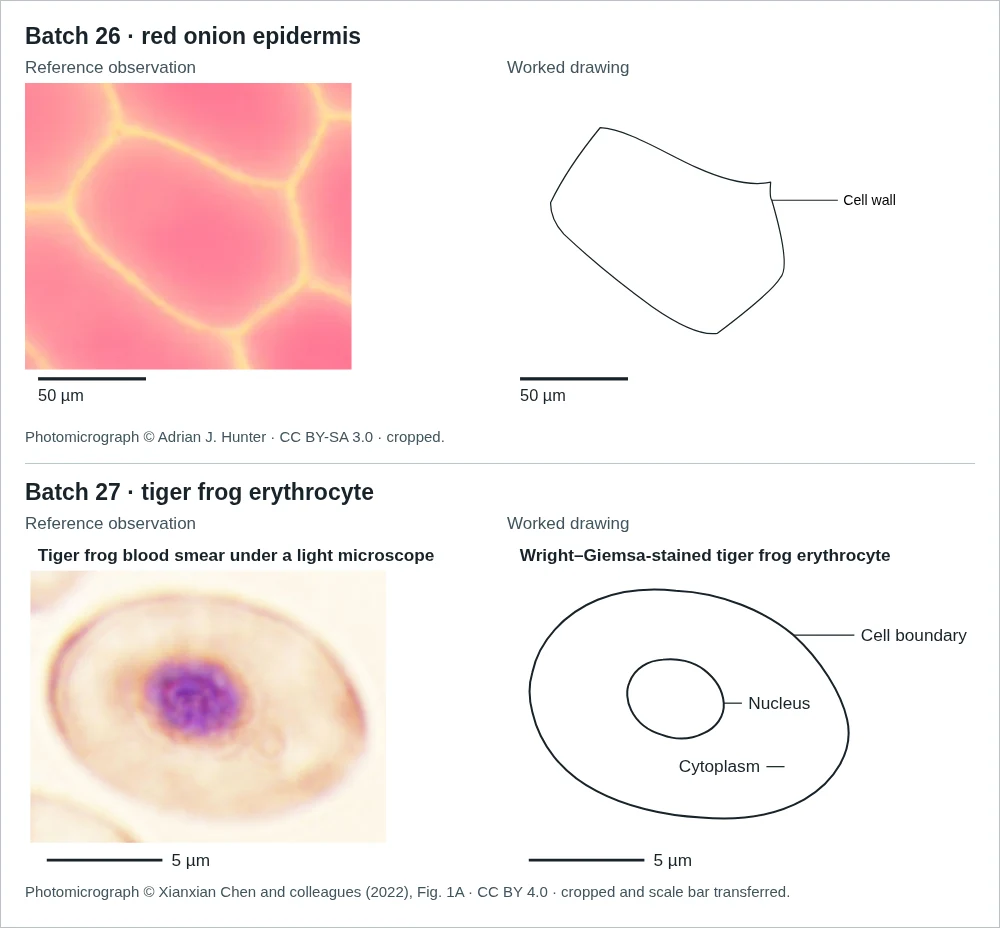
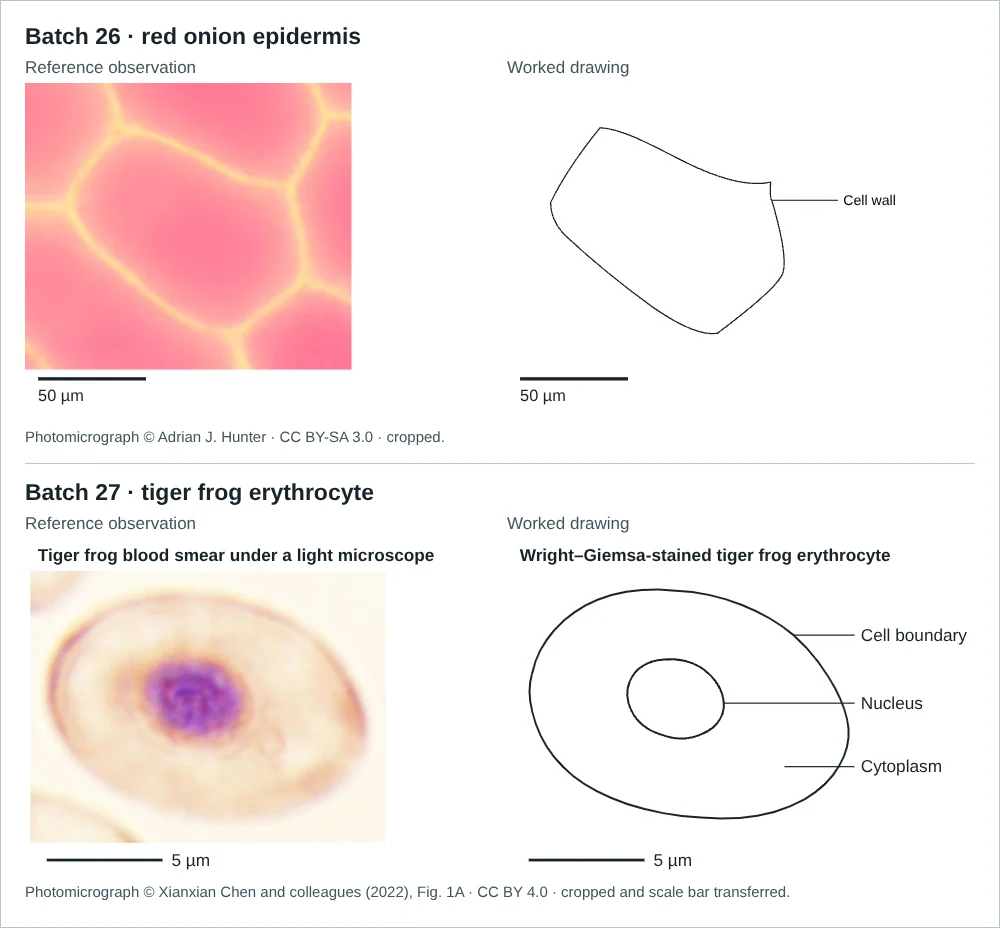
Place frog cell labels outside the specimen and check each line endpoint

diff --git a/public/alevel/drawing-worked.js b/public/alevel/drawing-worked.js
@@ -30,18 +30,16 @@
       content + scaleBar(24, 354));
   }
 
-  function leader(label, startX, y, endX, placeTextBefore = false) {
-    const textX = endX + (placeTextBefore ? -7 : 7);
-    return '<g data-worked-label="' + label + '"><line x1="' + startX + '" x2="' + endX + '" y1="' + y + '" y2="' + y +
-      '" stroke="' + ink + '" stroke-width="1.35"/><text x="' + textX + '" y="' + (y + 6) + '" text-anchor="' +
-      (placeTextBefore ? "end" : "start") + '" font-size="19">' + label + '</text></g>';
+  function leader(label, targetX, y) {
+    return '<g data-worked-label="' + label + '"><line x1="' + targetX + '" x2="377" y1="' + y + '" y2="' + y +
+      '" stroke="' + ink + '" stroke-width="1.35"/><text x="384" y="' + (y + 6) + '" font-size="19">' + label + '</text></g>';
   }
 
   function modelSvg() {
     const outlines = '<g fill="none" stroke="' + ink + '" stroke-width="2.2" stroke-linejoin="round">' +
       '<path data-worked-contour="cell" d="' + cell + '"/><path data-worked-contour="nucleus" d="' + nucleus + '"/></g>';
-    const drawing = '<g transform="translate(6 35)">' + outlines + leader("Cell boundary", 310, 71, 377) +
-      leader("Nucleus", 233, 146, 253) + leader("Cytoplasm", 300, 216, 280, true) + '</g>';
+    const drawing = '<g transform="translate(6 35)">' + outlines + leader("Cell boundary", 310, 71) +
+      leader("Nucleus", 233, 146) + leader("Cytoplasm", 300, 216) + '</g>';
     return frame(516, 374, "Drawing of the stained tiger frog erythrocyte in the photograph. The larger oblique contour encloses a smaller oval nucleus. Labels identify the cell boundary, nucleus and surrounding cytoplasm. The bar represents five micrometres.",
       '<text x="14" y="24" font-weight="bold" font-size="19">Wright–Giemsa-stained tiger frog erythrocyte</text>' +
       drawing + scaleBar(24, 354));
@@ -55,7 +53,7 @@
       "Trace the slightly tilted outer edge with one continuous pencil line. Leave out the fragments of neighbouring cells at the edge of the photograph.",
       "The dark purple nucleus lies near the centre, slightly to the left. Its width along the page is about a third of the cell’s. Outline it once and leave the lighter cytoplasm unshaded.",
       "The stain lets you distinguish nucleus from cytoplasm. It does not resolve the identity of every patch of colour. Leave out a nucleolus, chromosomes and other structures whose boundaries you cannot identify here.",
-      "Label the nucleus, cytoplasm and cell boundary with straight lines. Add a title naming the specimen and preparation. If asked to annotate it, explain how the staining makes the nucleus distinguishable.",
+      "Write the labels together beside the cell. Use a ruler to take each line to its feature without crossing another label line. Stop the nucleus line at its edge and the cytoplasm line in the pale region. Add a title naming the specimen and preparation. If asked to annotate it, explain how staining helps you identify the nucleus.",
       "The published 10 µm bar spans 255 source pixels. The 5 µm bar shown here spans half that distance. On paper, compare the same dimension of your cell with the photograph and resize the bar in the same proportion."
     ],
     observationSvg,

diff --git a/docs/biological-drawing-review-27.md b/docs/biological-drawing-review-27.md
@@ -60,7 +60,7 @@ Each row below represents a separately rendered candidate, paired with its photo
 
 | Observation | Independent source and image check |
 | --- | --- |
-| Principal worked cell | Chen and colleagues identify Figure 1A as a tiger frog erythrocyte in a Wright–Giemsa-stained blood smear. The 10 µm bar runs from x = 31 to 285 inclusive in the local source panel, giving 255 units. Both the observation and model use 127.5 units for 5 µm. The near-central, slightly leftward nucleus is about one third of the cell’s horizontal width. Both contours follow the source image. Its purple mottling supplies no reliably closed outlines of separate structures. The three leaders reach the outer edge, nuclear edge and cytoplasm respectively. In the final 320 px and desktop renders the internal labels fit in clear cytoplasm and their leaders do not cross the cell outline. [Figure and derivation](drawing-worked-source.md) |
+| Principal worked cell | Chen and colleagues identify Figure 1A as a tiger frog erythrocyte in a Wright–Giemsa-stained blood smear. The 10 µm bar runs from x = 31 to 285 inclusive in the local source panel, giving 255 units. Both the observation and model use 127.5 units for 5 µm. The near-central, slightly leftward nucleus is about one third of the cell’s horizontal width. Both contours follow the source image. Its purple mottling supplies no reliably closed outlines of separate structures. The three leaders reach the outer edge, nuclear edge and cytoplasm respectively. The original review placed two labels inside the cell to keep their lines short. The follow-up model places all three words in the margin. The nucleus and cytoplasm lines each enter the cell once. The cell-boundary line stops on the outer contour. [Figure and derivation](drawing-worked-source.md) |
 | Human cheek | The Figure 5 caption identifies panel a as the normal control cell and explicitly assigns 20 µm to the bar. I measured a 198-unit span from x = 412–609 inclusive at y = 596–599. The 10 µm bar uses 99 units. This teaching claim uses the observed morphology and captioned calibration of the published preprint. [Source, version and geometry](drawing-calibration-search.md) |
 | Mouse carotid | Figure 1A of Brown and colleagues identifies the unligated young control and explicitly applies the 100 µm bar to every panel. The black bar spans approximately 164 units, x = 3398–3561 inclusive in rows 680–683 of the local file. The selected arterial field retains that image scale. The correct drawing’s 100 µm bar uses those same 164 units. The medial outlines exclude diffuse outer connective tissue. [Published Figure 1](https://www.mdpi.com/1422-0067/26/21/10274) · [Source and tracing](drawing-artery-source.md) |
 | Independent paper drawing | The neighbouring cell is distinct from the earlier oblique onion cell. Its height, bowed left wall and lower junctions can be seen. The model’s single outline, right-wall leader, title, observation note and 50 µm bar fit the selected cell. The learner receives the photograph and paper instructions first. The model and reflection follow a deliberate reveal. |

diff --git a/docs/drawing-worked-source.md b/docs/drawing-worked-source.md
@@ -30,8 +30,9 @@ The conversion is 255 ÷ 10 = 25.5 image units per micrometre. A 5 µm bar there
 | Feature | Drawing decision and check |
 |---|---|
 | Cell | Trace the broad oblique silhouette, with rounded left end, high upper edge just left of centre, and lower right end. Preserve the gently uneven outline rather than substituting a symmetric oval. The cell-boundary label touches the upper-right slope at crop coordinate (310, 71). |
-| Nucleus | The dark purple enclosed region is just left of the cell centre. Its horizontal span is about 107 native pixels against about 350 for the cell. Trace the boundary of the whole stained region. The nuclear leader runs through clear cytoplasm from (253, 146) to the nucleus’s right boundary at (233, 146). |
-| Cytoplasm | The lightly stained area lies between those boundaries. The short cytoplasm leader runs from (280, 216) to (300, 216) within this unshaded region. Both internal labels fit in the clear space around the nucleus. All three straight lines reach their targets without cutting any other outline or crossing another leader. |
+| Nucleus | The dark purple enclosed region is just left of the cell centre. Its horizontal span is about 107 native pixels against about 350 for the cell. Trace the boundary of the whole stained region. The nucleus leader enters the cell from the right, passes through clear cytoplasm and stops at the right edge of the nucleus at (233, 146). |
+| Cytoplasm | The lightly stained area between the two boundaries is left unshaded. Its leader enters the cell from the right and ends in the cytoplasm at (300, 216). |
+| Label placement | All three labels begin at x = 384 in the right-hand margin. Their straight horizontal lines start at x = 377 at separate heights. The cell-boundary line stops on the outer contour. Each line to an internal feature crosses the enclosing cell boundary once. The three lines never cross one another. |
 | Omitted detail | Neither mottled staining within the nucleus nor the faint patches in the cytoplasm provide sufficiently resolved boundaries and identities to warrant separate structures. The crop does not resolve a membrane bilayer. The model uses a single outer contour and includes only the selected whole cell. |
 | Title and annotation | The model sheet itself names the specimen and stain. The worked text explains how to annotate the effect of staining when an annotation is requested. |
 | Review | The rendered pair and a native-coordinate contour overlay were visually inspected. Independent project reviewers checked the photograph, eight contour landmarks, ends and extent of all three leaders and original calibration. A separate reviewer also inspected the rendered pair at 320 px. These were project checks. External biology-teacher sign-off remains outstanding. |

diff --git a/docs/biological-drawing-batch-27.md b/docs/biological-drawing-batch-27.md
@@ -50,6 +50,6 @@ The browser suites exercise all 18 verdicts, their defect categories, neutral ac
 
 The calibrated figures support the specific structures named in their prompts. A single optical section cannot establish a three-dimensional shape, and a lack of resolution cannot establish that a cell lacks a particular structure. The models distinguish visible boundaries from stain patterns wherever that affects the judgement.
 
-The local site validation passed for 42 pages and 221 local links. Chromium passed the complete visual/accessibility suite, the A-level exam journey and the dedicated drawing scenarios. The drawing suite reported no WCAG A/AA findings in the states it exercised. It also checked that the two short internal labels on the introductory cell sit in clear cytoplasm. The hosted workflow runs include Chromium with real 200% browser zoom, Firefox, WebKit and the synthetic performance sample. [Batch 27 changes and commits](https://github.com/mnarajos/Narajos-site/pull/79/commits) · [Hosted check results](https://github.com/mnarajos/Narajos-site/pull/79/checks)
+The local site validation passed for 42 pages and 221 local links. Chromium passed the complete visual/accessibility suite, the A-level exam journey and the dedicated drawing scenarios. The drawing suite reported no WCAG A/AA findings in the states it exercised. A follow-up moved the worked frog cell’s label text into the margin. The drawing test checks the position of the text and the endpoint of each separate label line. The hosted workflow runs include Chromium with real 200% browser zoom, Firefox, WebKit and the synthetic performance sample. [Batch 27 changes and commits](https://github.com/mnarajos/Narajos-site/pull/79/commits) · [Hosted check results](https://github.com/mnarajos/Narajos-site/pull/79/checks)
 
 The first hosted Firefox and WebKit runs caught three long titles extending beyond their drawing sheets. Shorter explanatory titles retain the specimen, preparation or view and fit across the tested browser fonts.
